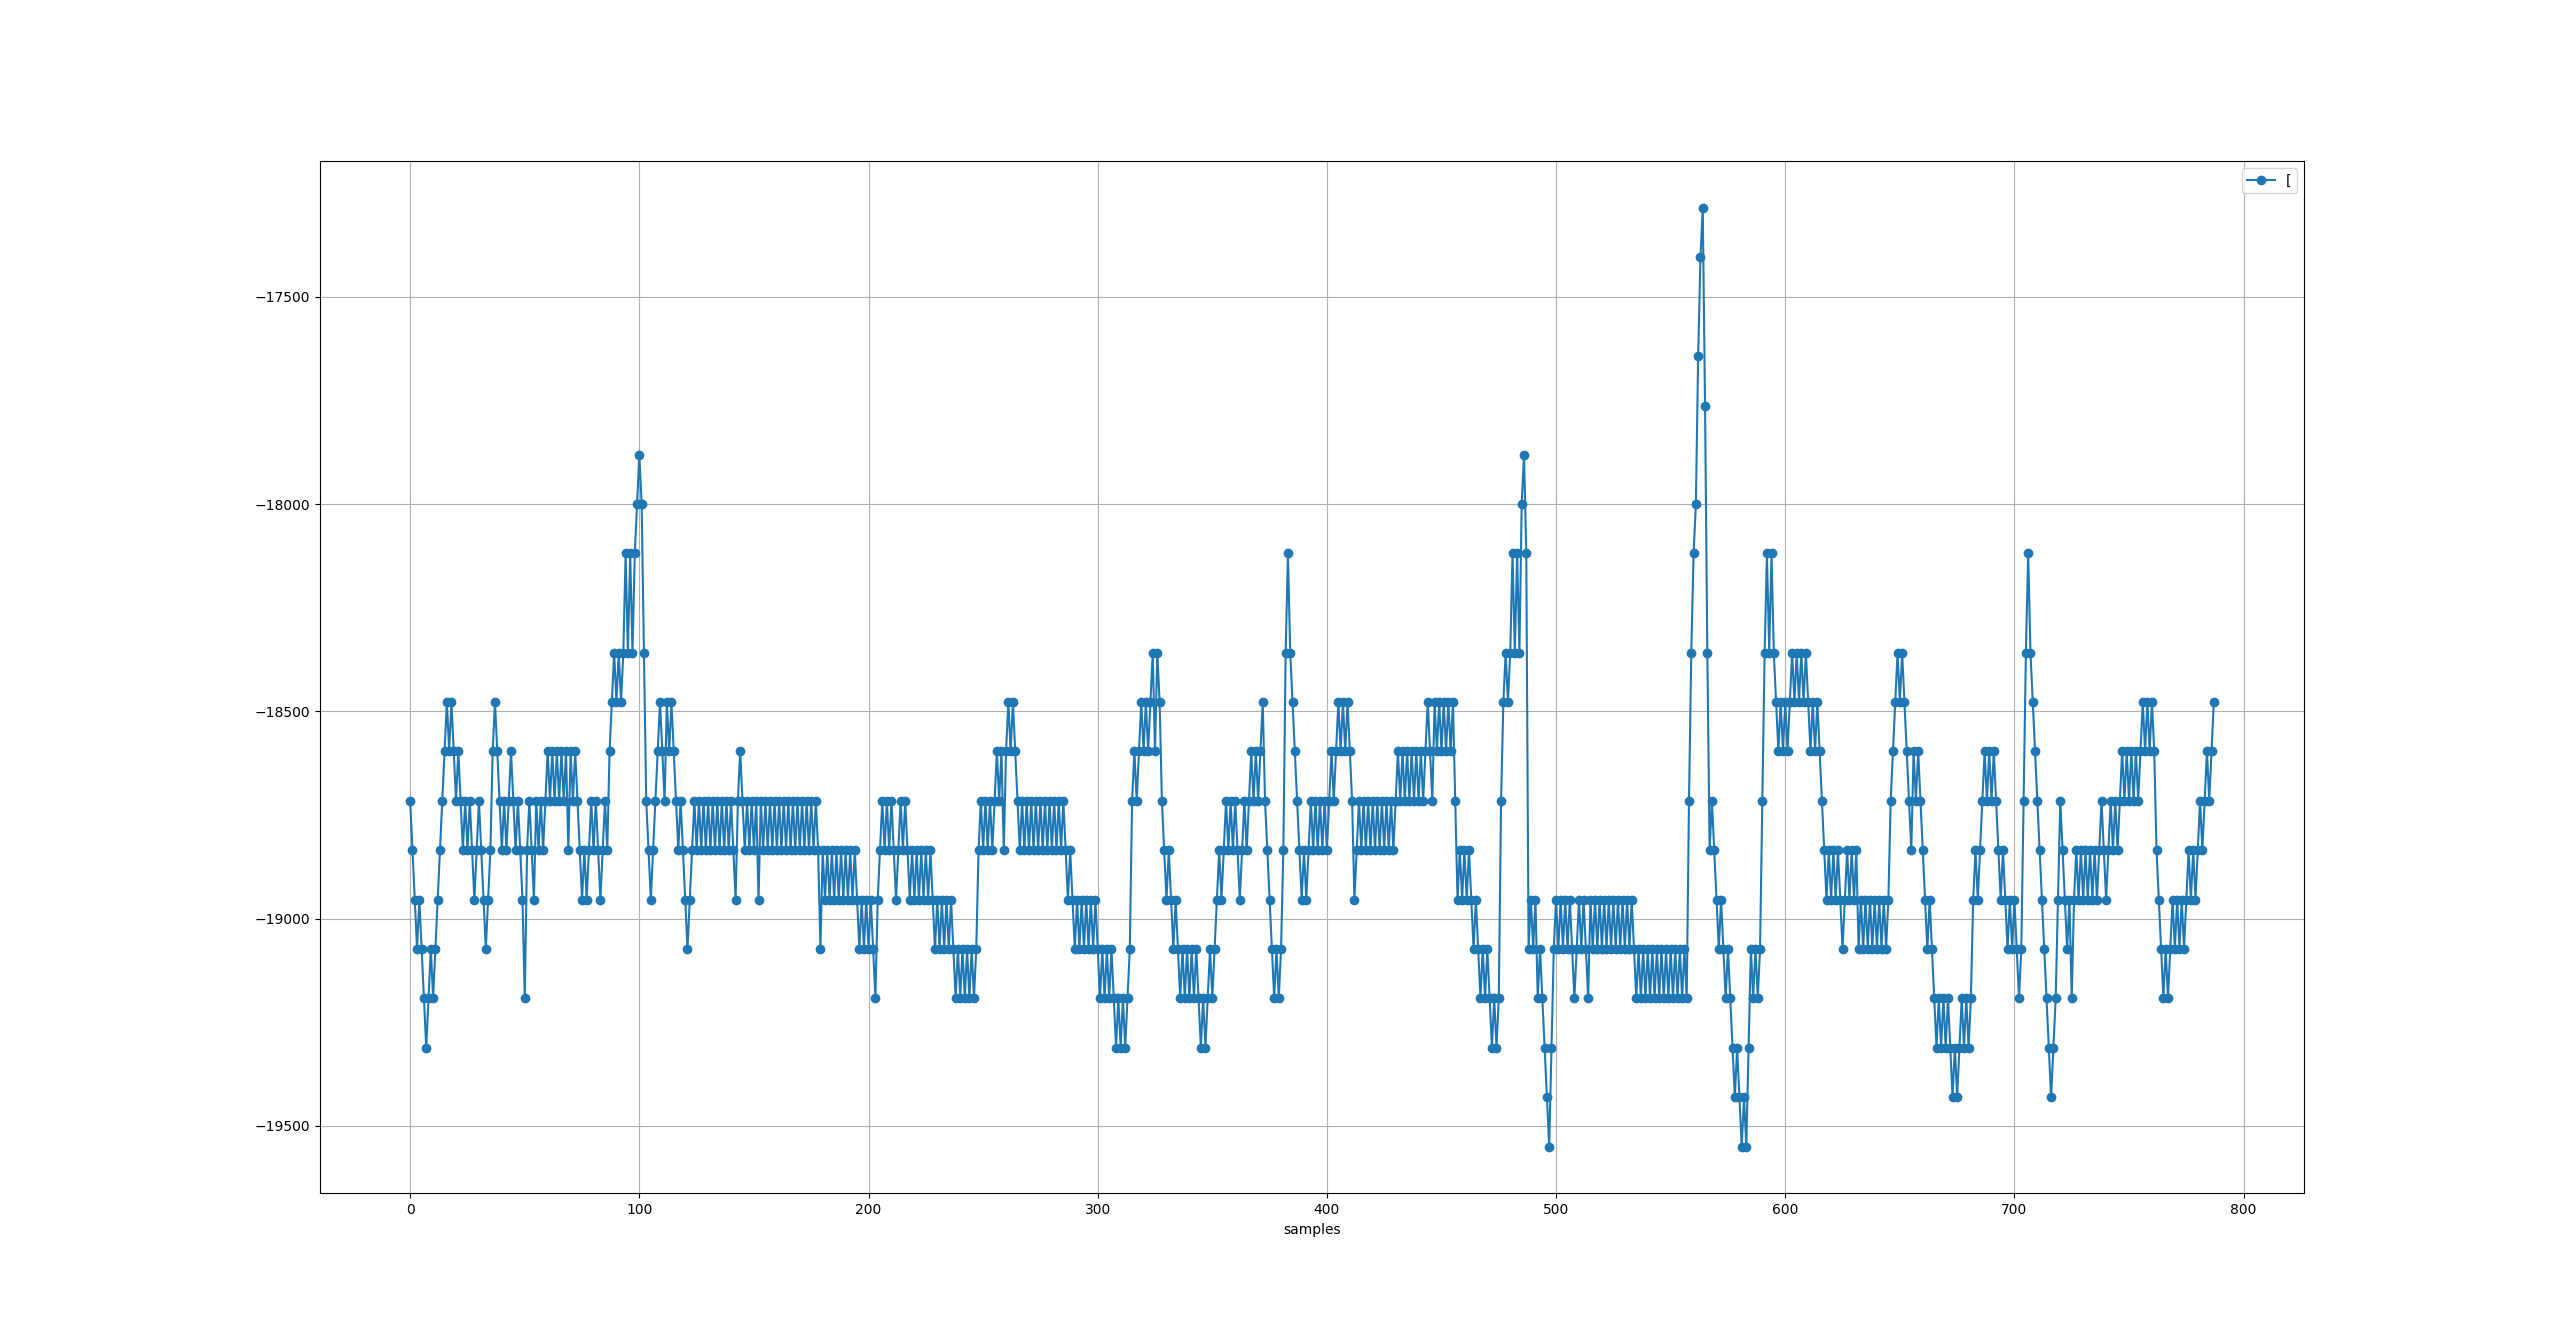
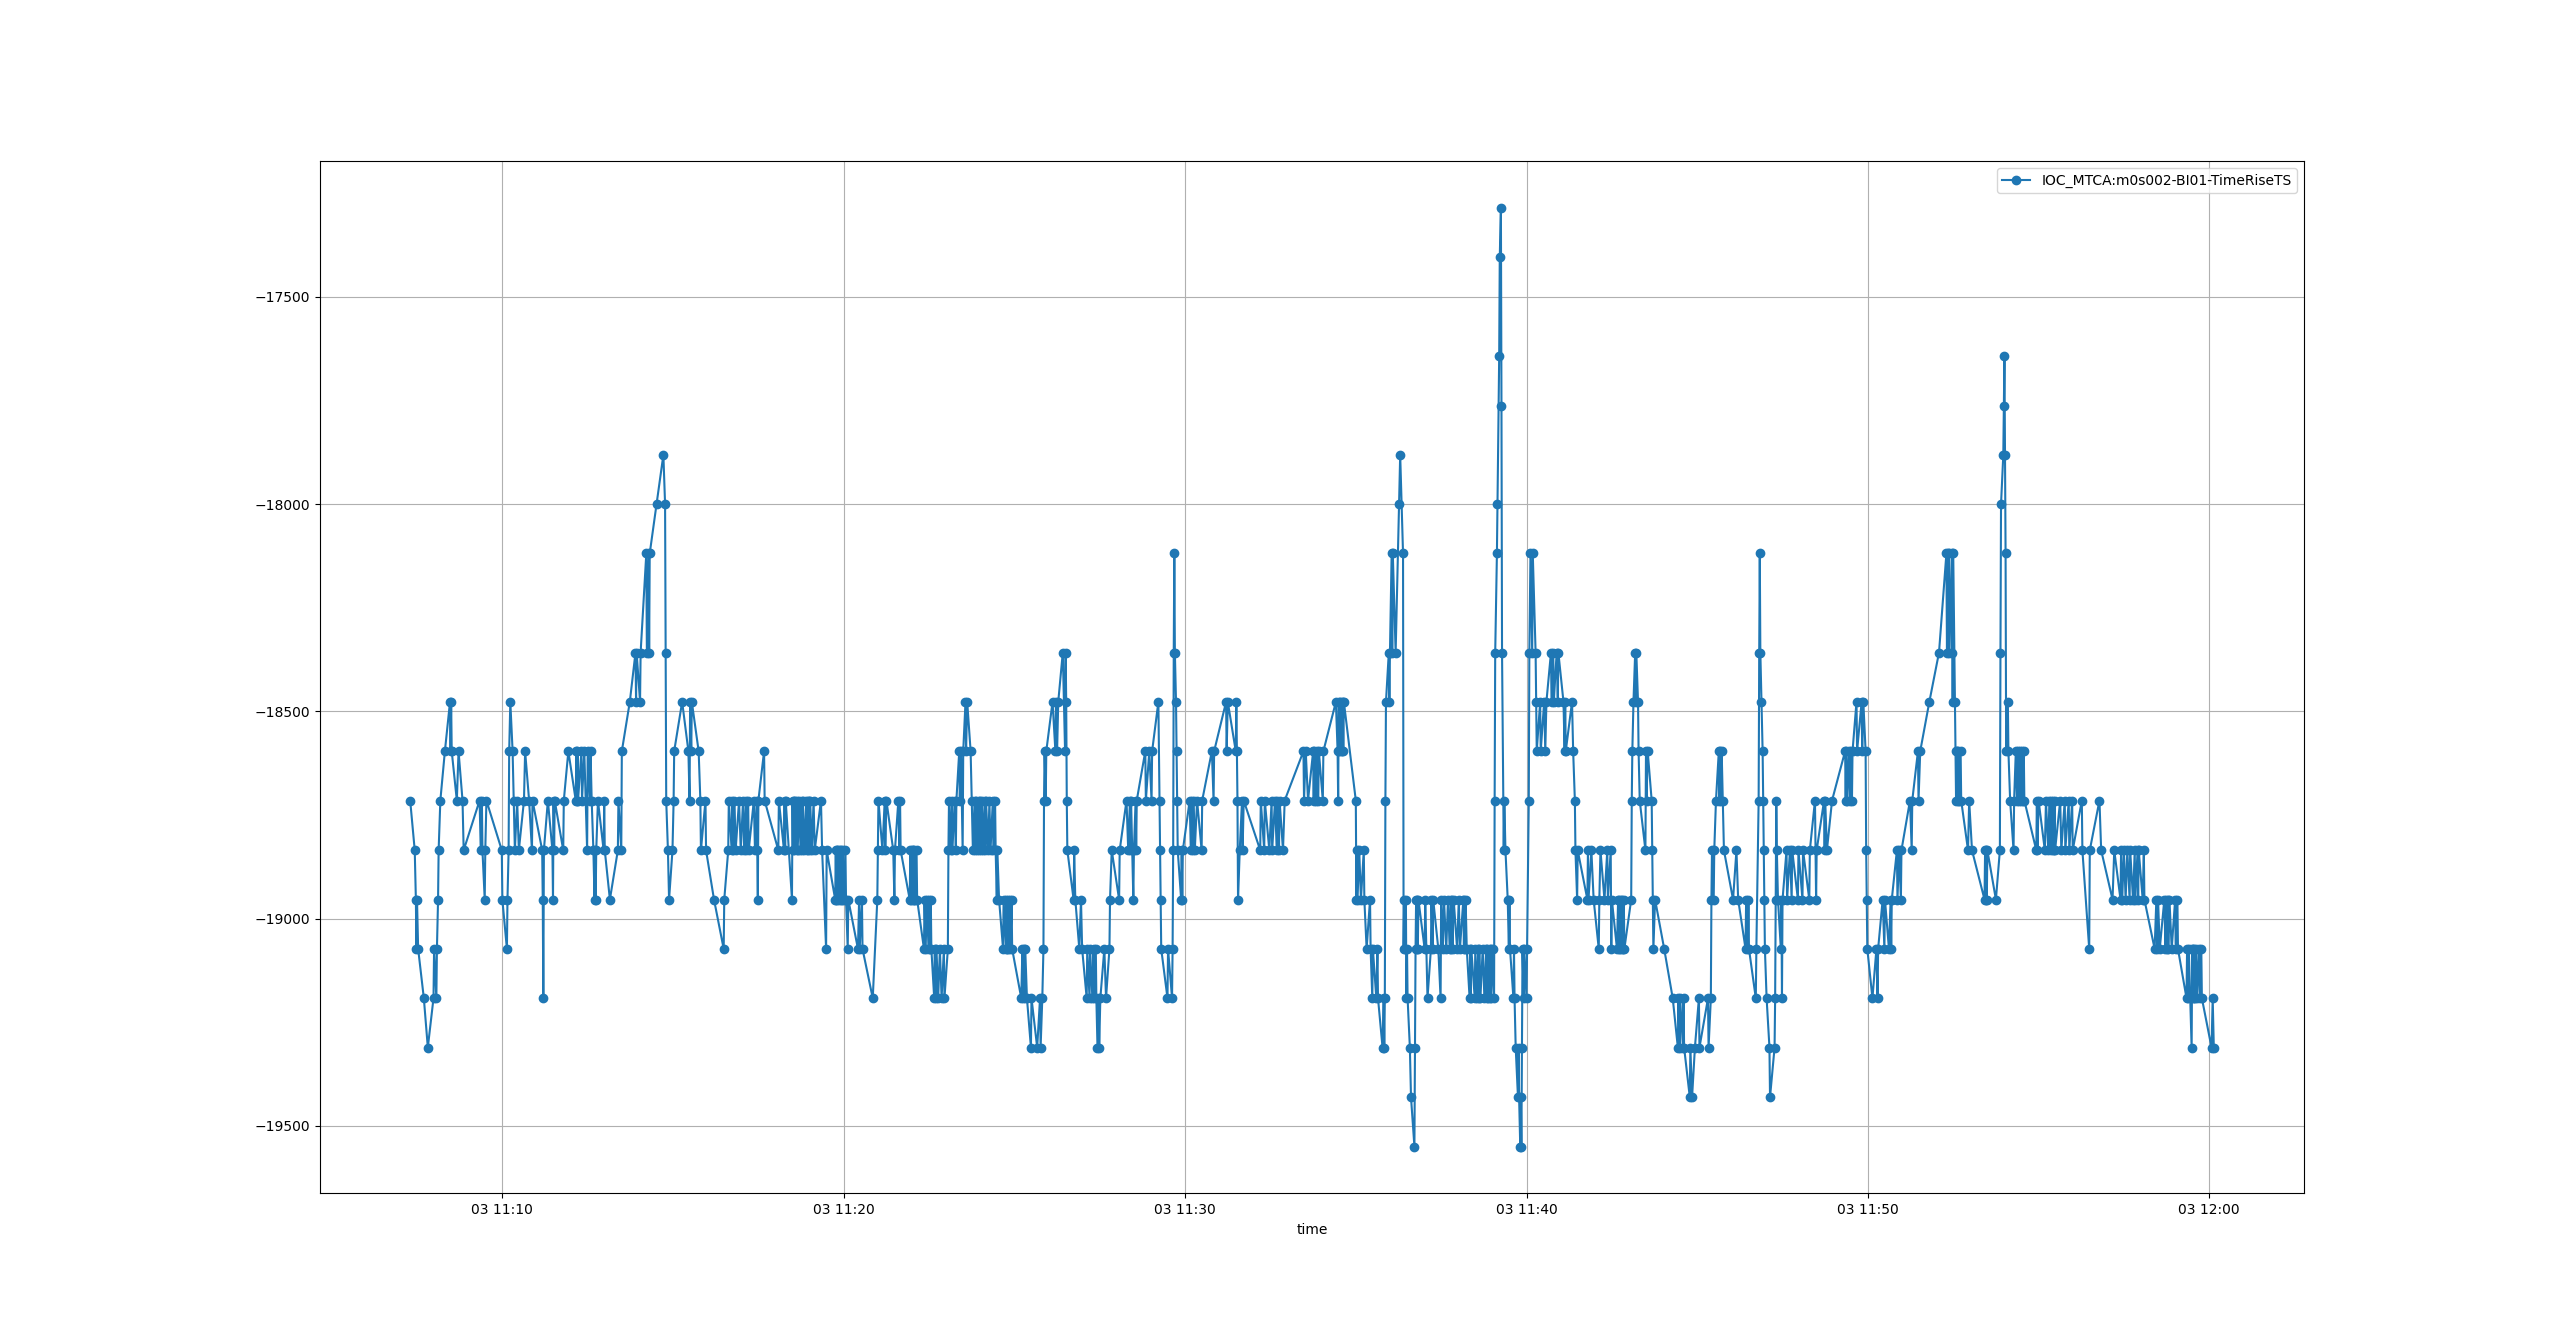
WIP

diff --git a/iocsh_real/readme.md b/iocsh_real/readme.md
@@ -23,6 +23,10 @@ $ camonitor IOC_MTCA:m0s002-BI01-TimeRiseTS MCAG:TS-EVR-01:1hzCnt-I MCAG:TS-EVR-
 # Analyse 
 ```
 conda activate ecmccomgui_py36
+
+
+cat time_realtime_3*.log | grep m0 | awk '{print($1 " " $2 " " $3 " " $4-999999999); }' | python ~/sources/ecmccomgui/pyDataManip/plotCaMonitor.py
+
 cat time_0* | grep m0 | awk '{print($4-999999999); }' | python ~/sources/ecmccomgui/pyDataManip/plotData.py 
 ```
 
